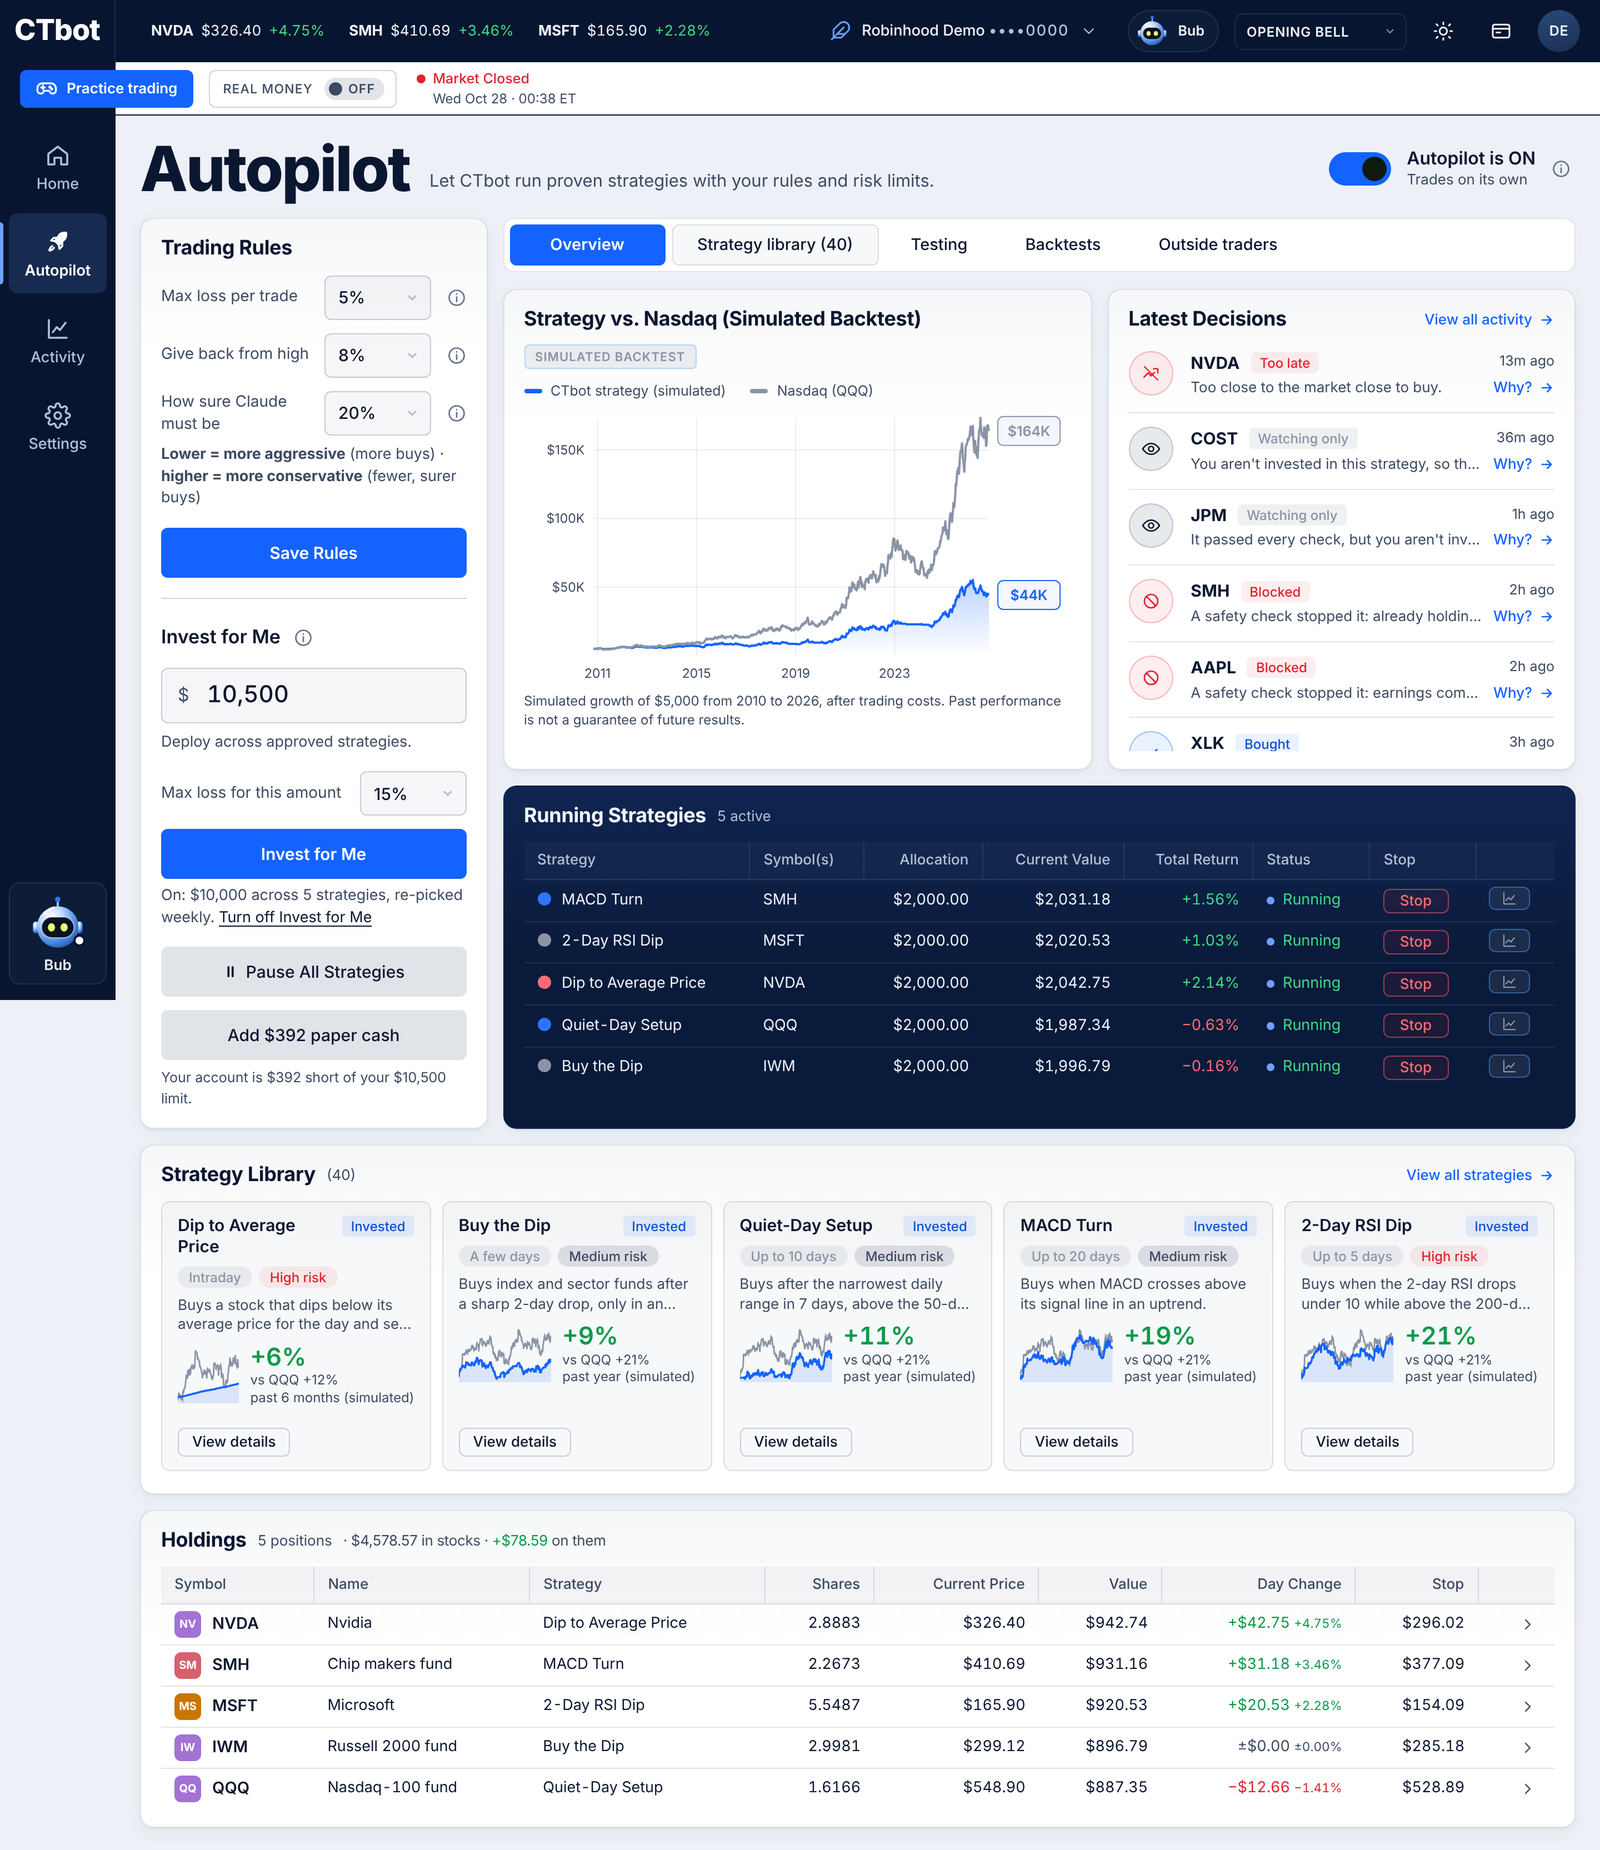
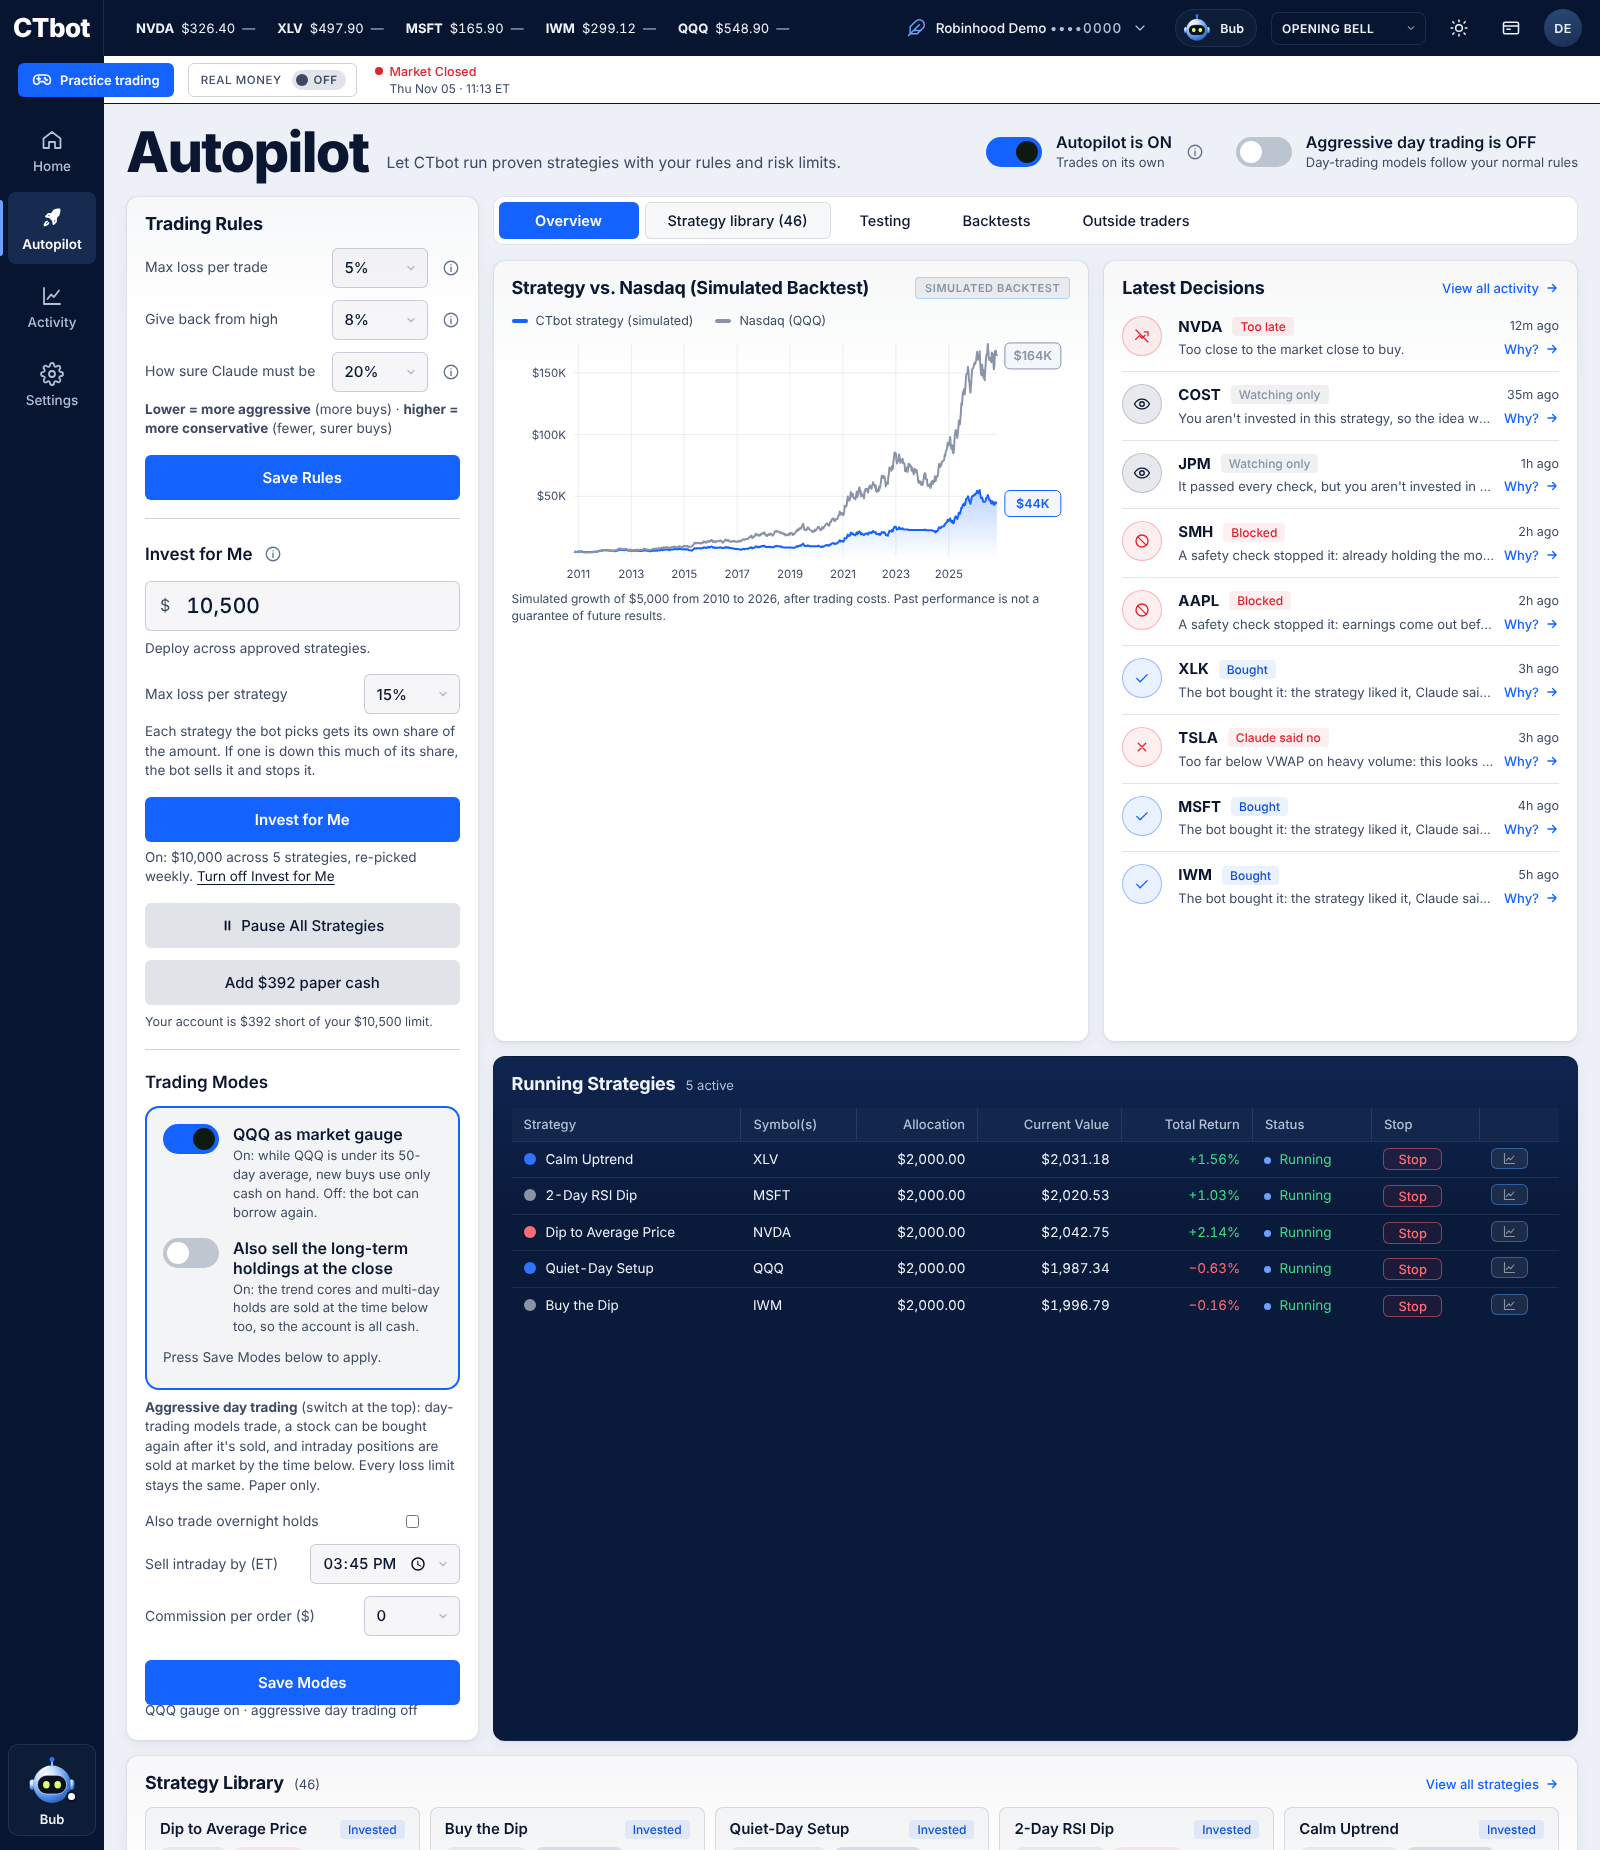
README: fresh screenshots from the made-up demo account
Home (light and dark), Autopilot with the trading-mode switches, strategy library, Activity
and Bub, all regenerated on today's main with seeded fake prices and a demo paper account.

Claude-Session: https://claude.ai/code/session_012GUSCz4BgLxFNfvjnk5daJ

diff --git a/README.md b/README.md
@@ -27,7 +27,7 @@ click away in the style menu.
 
 | Set three rules, flip it on, give it an amount | Every strategy it may use, and why |
 |---|---|
-| <img src="docs/images/autopilot.png" alt="Autopilot tab: trading rules (max loss per trade 5%, give back from high 8%, how sure Claude must be 20%), Invest for Me with $10,500, the strategy vs Nasdaq backtest chart, latest decisions, running strategies and the strategy library" width="400"> | <img src="docs/images/library.png" alt="Strategy library: 28 strategies trading and 12 benched, each with the reason, such as no practice trades lately or failed its test because results could be luck" width="400"> |
+| <img src="docs/images/autopilot.png" alt="Autopilot tab: trading rules (max loss per trade 5%, give back from high 8%, how sure Claude must be 20%), Invest for Me with $10,500, the strategy vs Nasdaq backtest chart, latest decisions, running strategies and the strategy library" width="400"> | <img src="docs/images/library.png" alt="Strategy library: 31 strategies trading and 15 benched, each with the reason, such as no practice trades lately or failed its test because results could be luck" width="400"> |
 | **Activity: every idea, what happened and why** | **Dark mode** |
 | <img src="docs/images/activity.png" alt="Activity tab: the bot's trade ideas with what happened to each and what Claude said, then results by strategy" width="400"> | <img src="docs/images/home-dark.png" alt="Home in Opening Bell dark mode" width="400"> |
 
